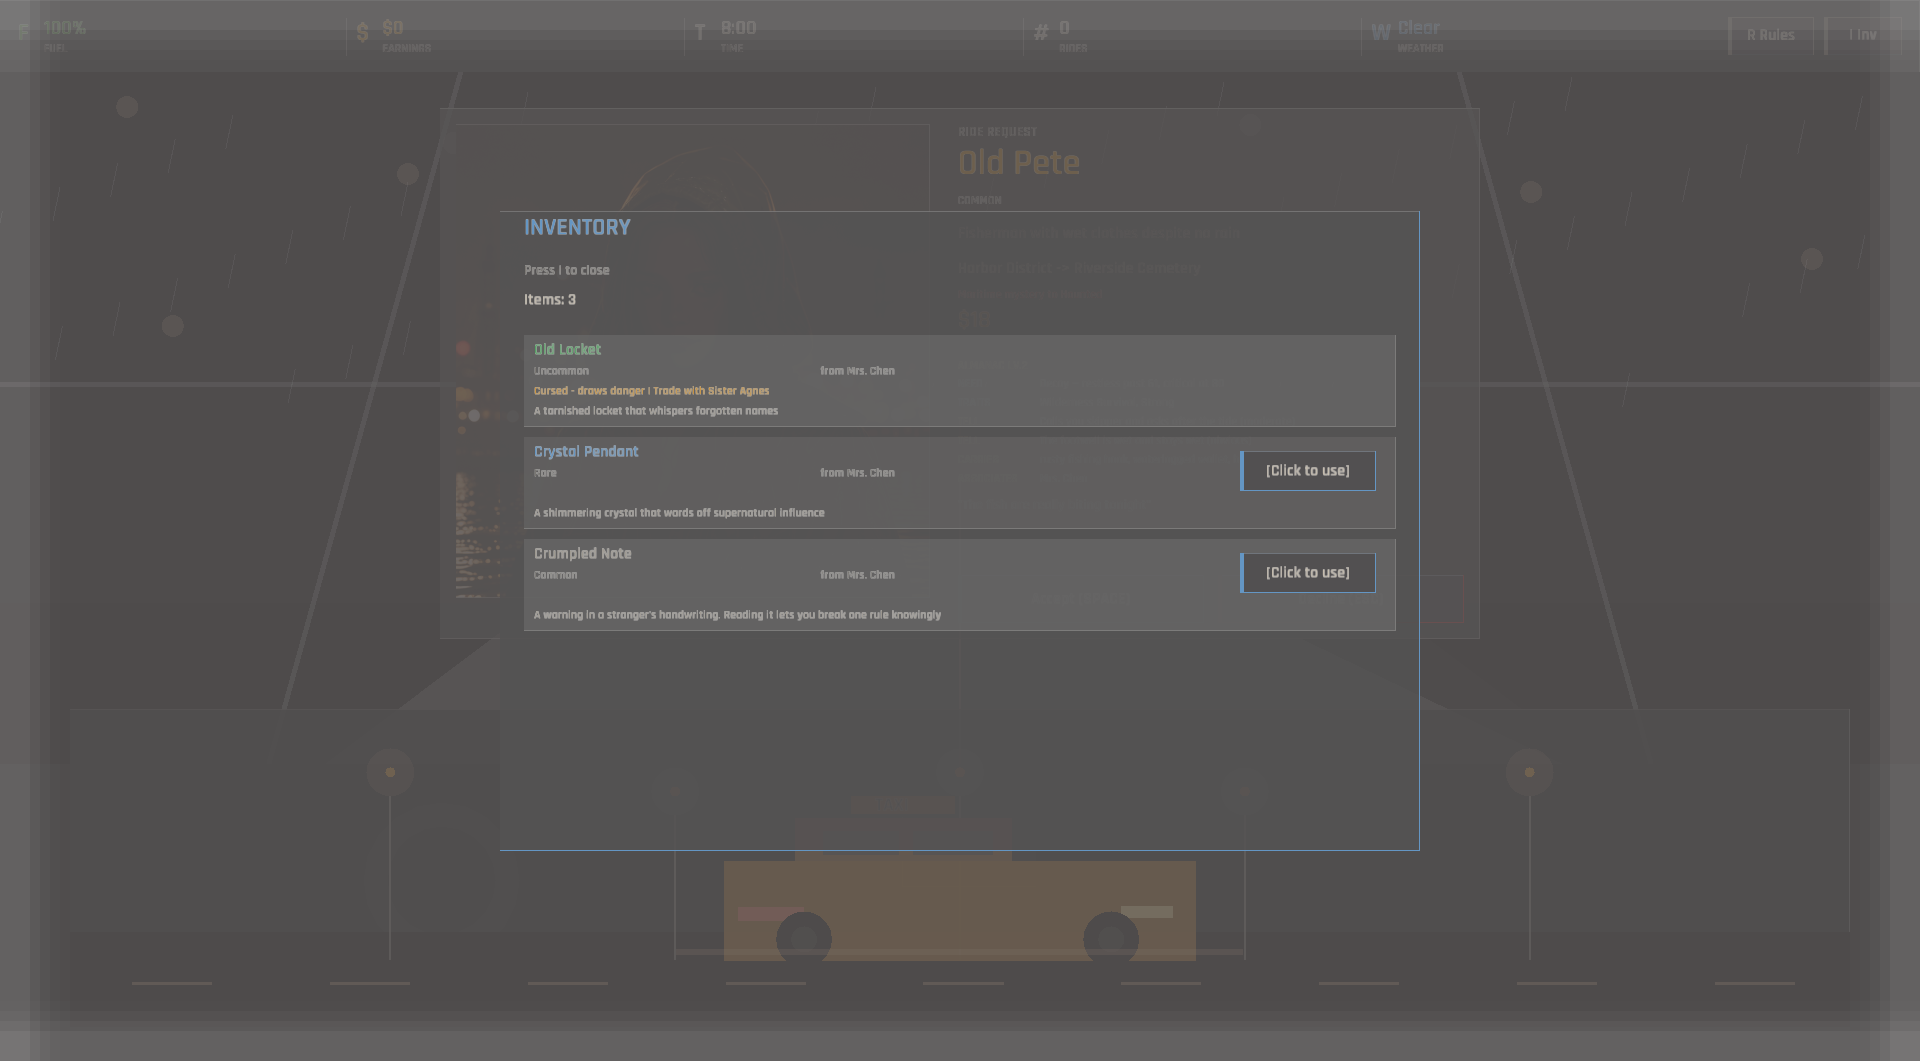
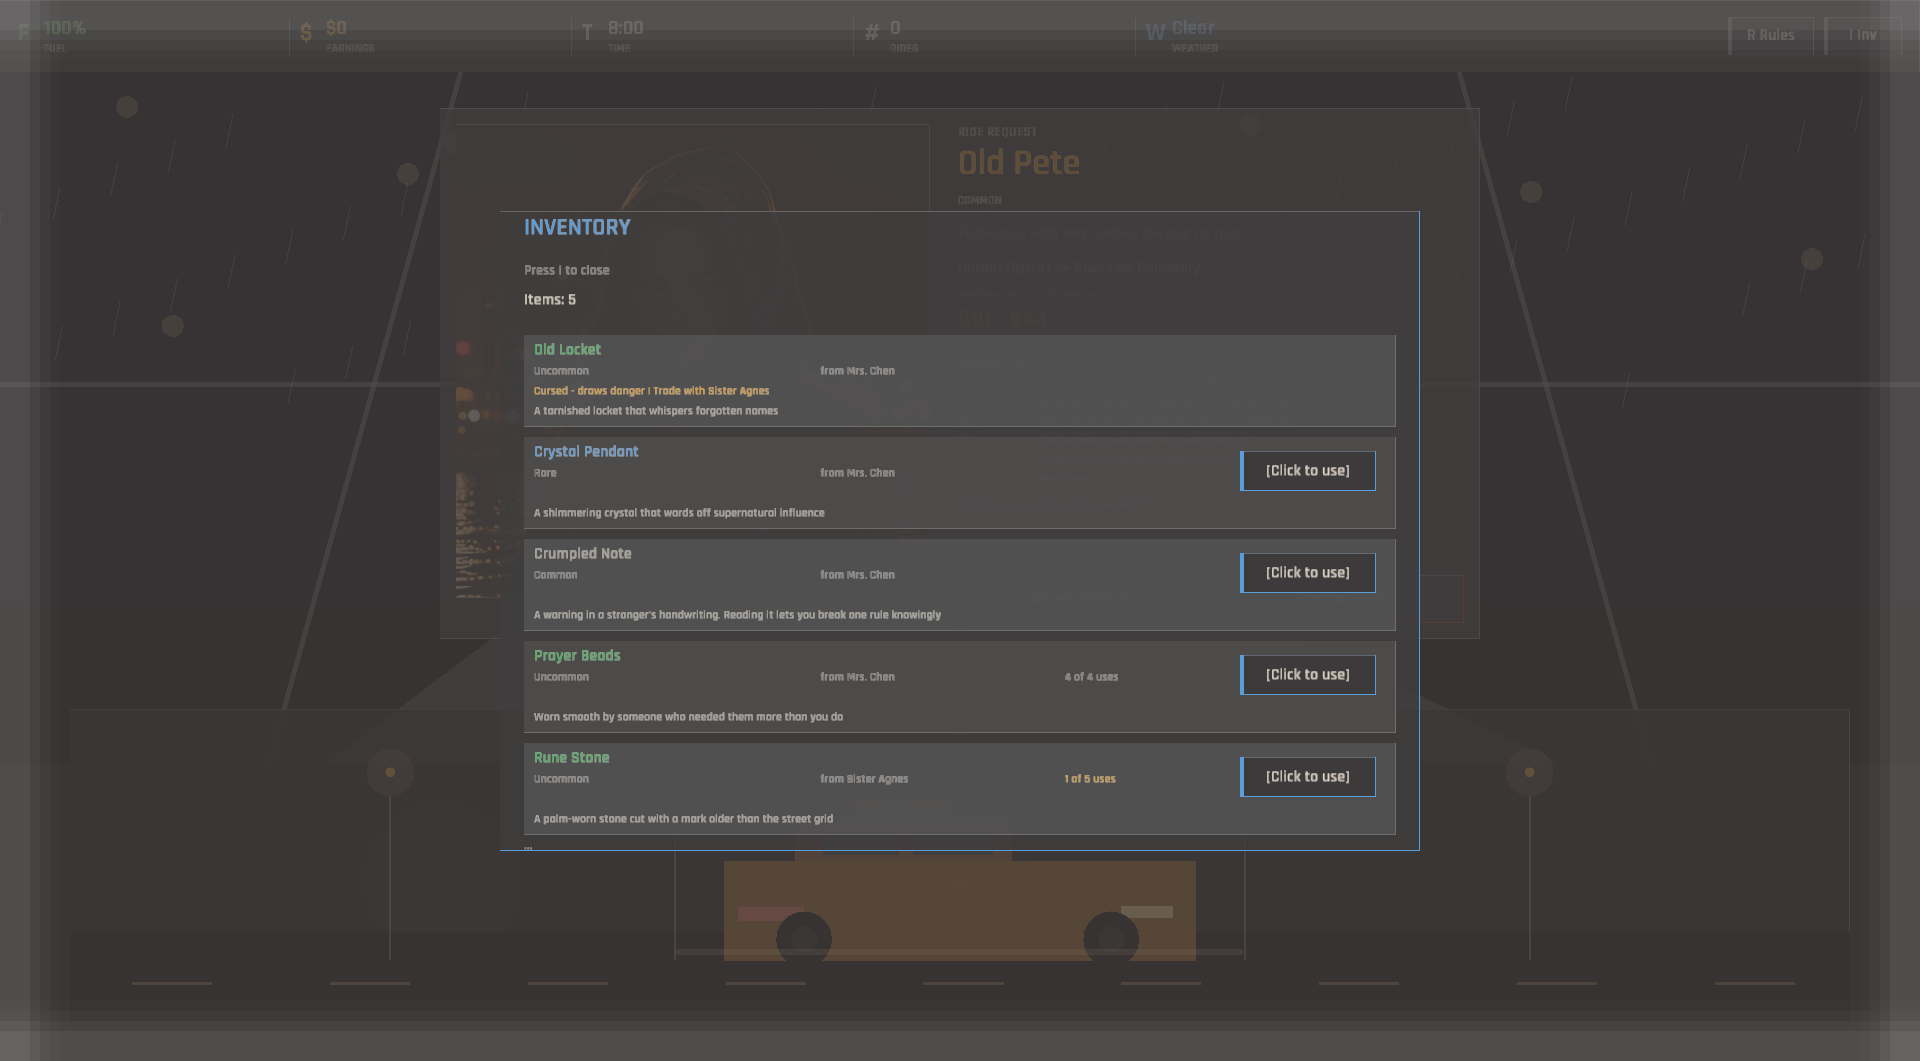
An item that counts its charges says how many are left
Seven items carry a charge count -- the Rune Stone has five, Prayer Beads four,
the Old Key and Saint's Icon and Velvet Cloak Scrap three, Cursed Dice and the
Ornate Ring two -- and `use_item` spends one per use, removing the item on its
last. Nothing displayed it. So a driver could not tell a full ward from one on
its final charge, used it, and watched it vanish from the inventory without
warning. An item you cannot plan around is not much of an item, which is most of
the standing brief in one sentence.

The inventory rows read "4 of 4 uses" and, on the last charge, "1 of 5 uses" in
warning colour.

`uses_left` also refuses to answer for an item the driver cannot use. The four
cursed items carry a `maxDurability` between sixty and a hundred, which is a decay
clock rather than a charge count, and the first capture read "100 of 100 uses" on
a locket nobody can use. Saying nothing is better than that. Looking at the
screen caught it; the first version of this change shipped that line and the
second does not.

Three tests: a counted item starts full and spending a use lowers the count, an
item with no durability reports none rather than "0 of 0", and an unusable item
reports none whatever durability it carries.

Also checked and cleared the last candidate from last night's list. The outcome
screen's score is not a second copy -- both it and the leaderboard entry call
`GameState::calculate_score` -- so the "screen recomputing what the engine
[…]

diff --git a/src/engine/item_service.rs b/src/engine/item_service.rs
@@ -532,6 +532,86 @@ mod tests {
         assert!(authored > 0, "no passenger offers a trade reward any more");
     }
 
+    /// An item that counts its uses reports them, and spending one lowers the
+    /// count the inventory shows.
+    ///
+    /// Eleven items author a `maxDurability` and `use_item` spends one per use,
+    /// removing the item on its last. Nothing displayed it, so a three-use ward
+    /// looked identical to one on its final charge and then vanished without
+    /// warning.
+    #[test]
+    fn a_counted_item_reports_and_spends_its_uses() {
+        let constants = load_constants();
+        let catalog = load_item_catalog();
+        let passengers = load_passengers();
+        let uncanny = passengers
+            .iter()
+            .find(|p| p.is_supernatural)
+            .expect("a supernatural fare");
+
+        // Prayer Beads: four uses, usable, and no condition on the effect.
+        let mut state = GameState::new(0.0, &constants.game_constants);
+        state.current_passenger = Some(uncanny.clone());
+        state
+            .inventory
+            .push(catalog.create_item("Prayer Beads", "test", 0.0));
+
+        let (before, most) = state.inventory[0]
+            .uses_left()
+            .expect("the beads count their uses");
+        assert_eq!(before, most, "a fresh item did not start full");
+        assert!(
+            most > 1,
+            "pick an item with more than one use to test spending"
+        );
+
+        assert!(ItemService::use_item(
+            &mut state,
+            0,
+            &constants.reputation,
+            0.0
+        ));
+        let (after, _) = state.inventory[0]
+            .uses_left()
+            .expect("the beads are still in hand");
+        assert_eq!(after, before - 1, "spending a use did not lower the count");
+    }
+
+    /// An item with no durability authored reports none, rather than "0 of 0".
+    #[test]
+    fn an_uncounted_item_reports_no_uses() {
+        let catalog = load_item_catalog();
+        let mut names: Vec<String> = catalog.names();
+        names.sort();
+        let uncounted = names
+            .iter()
+            .map(|name| catalog.create_item(name, "test", 0.0))
+            .find(|item| item.max_durability.is_none())
+            .expect("an item without durability");
+        assert!(uncounted.uses_left().is_none());
+    }
+
+    /// And nor does an item the driver cannot use, whatever durability it
+    /// carries. The cursed items author sixty to a hundred, which is a decay
+    /// clock rather than a charge count, and reporting it as uses on a locket
+    /// nobody can use is worse than saying nothing.
+    #[test]
+    fn an_unusable_item_reports_no_uses() {
+        let catalog = load_item_catalog();
+        let mut names: Vec<String> = catalog.names();
+        names.sort();
+        let unusable = names
+            .iter()
+            .map(|name| catalog.create_item(name, "test", 0.0))
+            .find(|item| !item.can_use && item.max_durability.is_some())
+            .expect("an unusable item that still carries a durability");
+        assert!(
+            unusable.uses_left().is_none(),
+            "{} reported uses it has no way to spend",
+            unusable.name
+        );
+    }
+
     /// The Crystal Pendant's charge is conditional, and the condition has to
     /// bite. It grants rule immunity authored `"supernatural_encounter"`, so
     /// offering it to an ordinary fare should do nothing -- and should not

diff --git a/src/data/inventory.rs b/src/data/inventory.rs
@@ -185,6 +185,27 @@ pub struct InventoryItem {
 }
 
 impl InventoryItem {
+    /// How many uses are left, when the item counts them.
+    ///
+    /// Eleven items author a `maxDurability` and `use_item` spends one each
+    /// time, removing the item on its last use. Nothing displayed it, so a
+    /// driver holding a three-use ward could not tell a full one from its final
+    /// charge, and it vanished from the inventory without warning. An item you
+    /// cannot plan around is not much of an item.
+    /// Only for an item the driver can actually use. The four cursed items
+    /// carry a `maxDurability` in the sixties to the hundreds, which is a decay
+    /// clock rather than a charge count -- "100 of 100 uses" on a locket nobody
+    /// can use is worse than saying nothing.
+    pub fn uses_left(&self) -> Option<(u32, u32)> {
+        if !self.can_use {
+            return None;
+        }
+        match (self.durability, self.max_durability) {
+            (Some(left), Some(most)) if most > 0 => Some((left, most)),
+            _ => None,
+        }
+    }
+
     /// Check if this item is cursed
     pub fn is_cursed(&self) -> bool {
         self.item_type == ItemType::Cursed || self.cursed_properties.is_some()

diff --git a/src/game/capture_scenes.rs b/src/game/capture_scenes.rs
@@ -447,10 +447,21 @@ impl Game {
                 self.spawn_passenger();
                 if let Some(data) = &self.game_data {
                     let now = get_time();
-                    for name in ["Old Locket", "Crystal Pendant", "Crumpled Note"] {
+                    // A cursed one, a plain one, and two that count their
+                    // uses -- one fresh and one down to its last charge, so both
+                    // states of the uses readout are in the capture.
+                    for name in [
+                        "Old Locket",
+                        "Crystal Pendant",
+                        "Crumpled Note",
+                        "Prayer Beads",
+                    ] {
                         let item = data.items.create_item(name, "Mrs. Chen", now);
                         self.game_state.inventory.push(item);
                     }
+                    let mut spent = data.items.create_item("Rune Stone", "Sister Agnes", now);
+                    spent.durability = Some(1);
+                    self.game_state.inventory.push(spent);
                 }
                 self.show_inventory = true;
             }

diff --git a/src/screens/game_screens/modals.rs b/src/screens/game_screens/modals.rs
@@ -120,6 +120,22 @@ pub fn draw_inventory_modal(game_state: &GameState, game_data: Option<&GameData>
                     colors::TEXT_MUTED,
                 );
 
+                // Charges left, for the items that count them.
+                if let Some((left, most)) = item.uses_left() {
+                    let colour = if left <= 1 {
+                        colors::ACCENT_WARNING
+                    } else {
+                        colors::TEXT_MUTED
+                    };
+                    draw_ui_text(
+                        &format!("{left} of {most} uses"),
+                        inner.x + inner.w * 0.62,
+                        y + 35.0,
+                        fonts::SIZE_XS,
+                        colour,
+                    );
+                }
+
                 // Source
                 // "from {}"
                 let source_text = data
